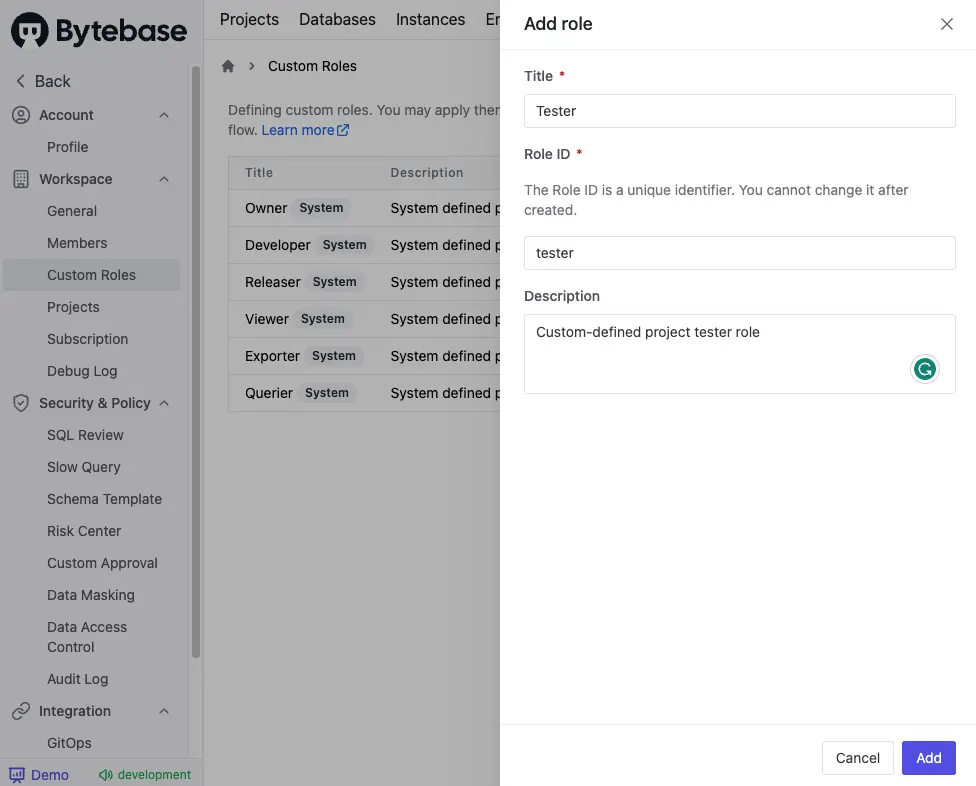
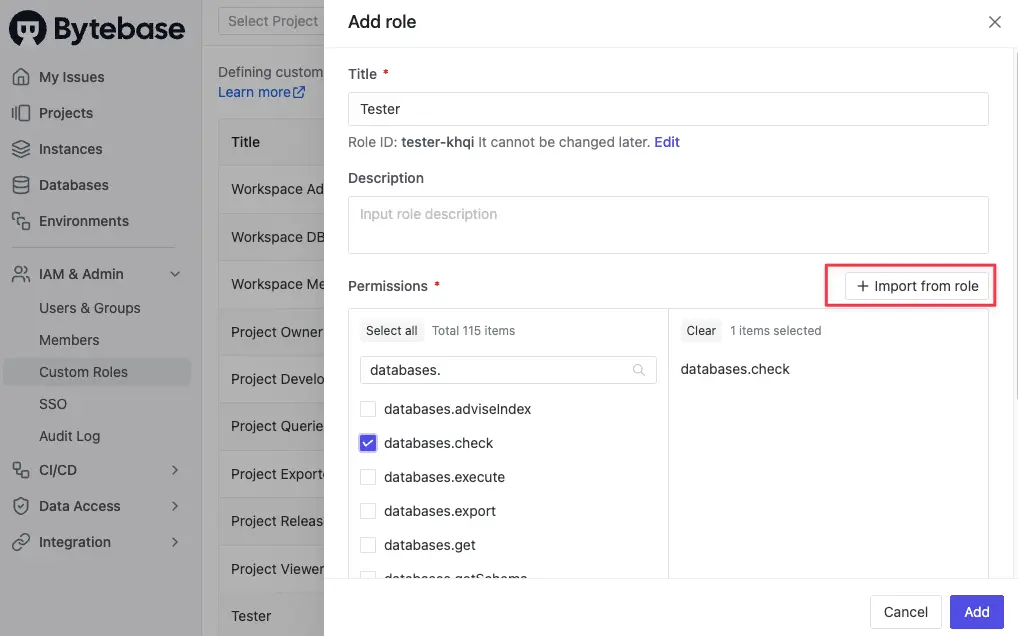
docs: create custom role doc

diff --git a/content/docs/administration/custom-roles.md b/content/docs/administration/custom-roles.md
@@ -13,13 +13,15 @@ assigned testers.
 
 ## Create custom roles
 
-To create custom roles, go to **Settings > Custom Roles**. Click **Add role** to create a new role.
+To create custom roles, go to **IAM & Admin > Custom Roles**. Click **Add role** to create a new role.
 
 ![add-custom-role](/content/docs/administration/custom-roles/add-custom-role.webp)
 
+You can choose `Import from role` to build your custom role based on the existing role.
+
 ## Add to custom approval flow
 
-Go to **Settings > Custom Approval**. From **Approval Flows** tab, choose an approval flow to add.
+Go to **CI/CD > Custom Approval**. From **Approval Flows** tab, choose an approval flow to add.
 
 ![add-to-custom-approval-flow](/content/docs/administration/custom-roles/add-to-custom-approval-flow.webp)
 
